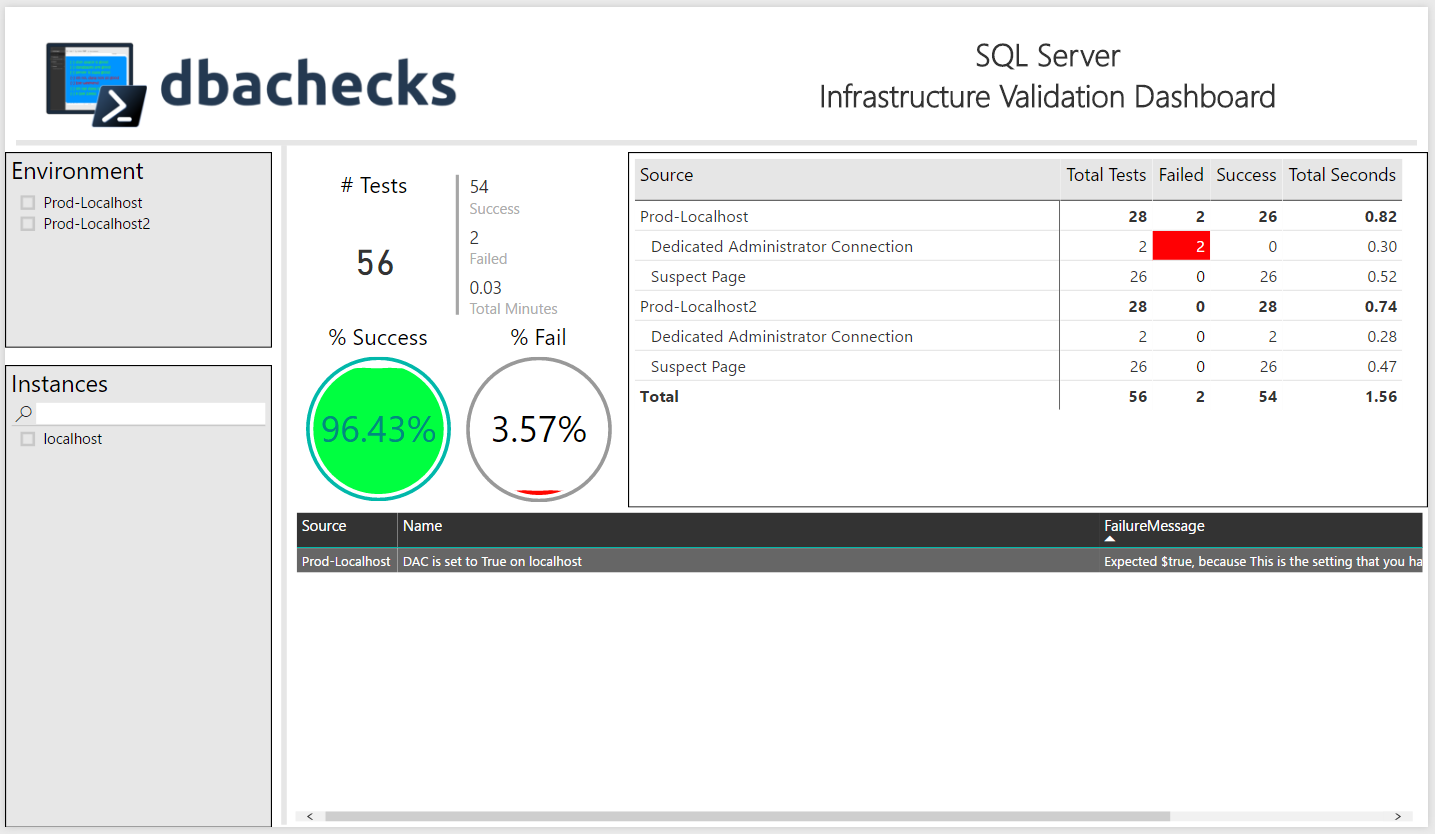
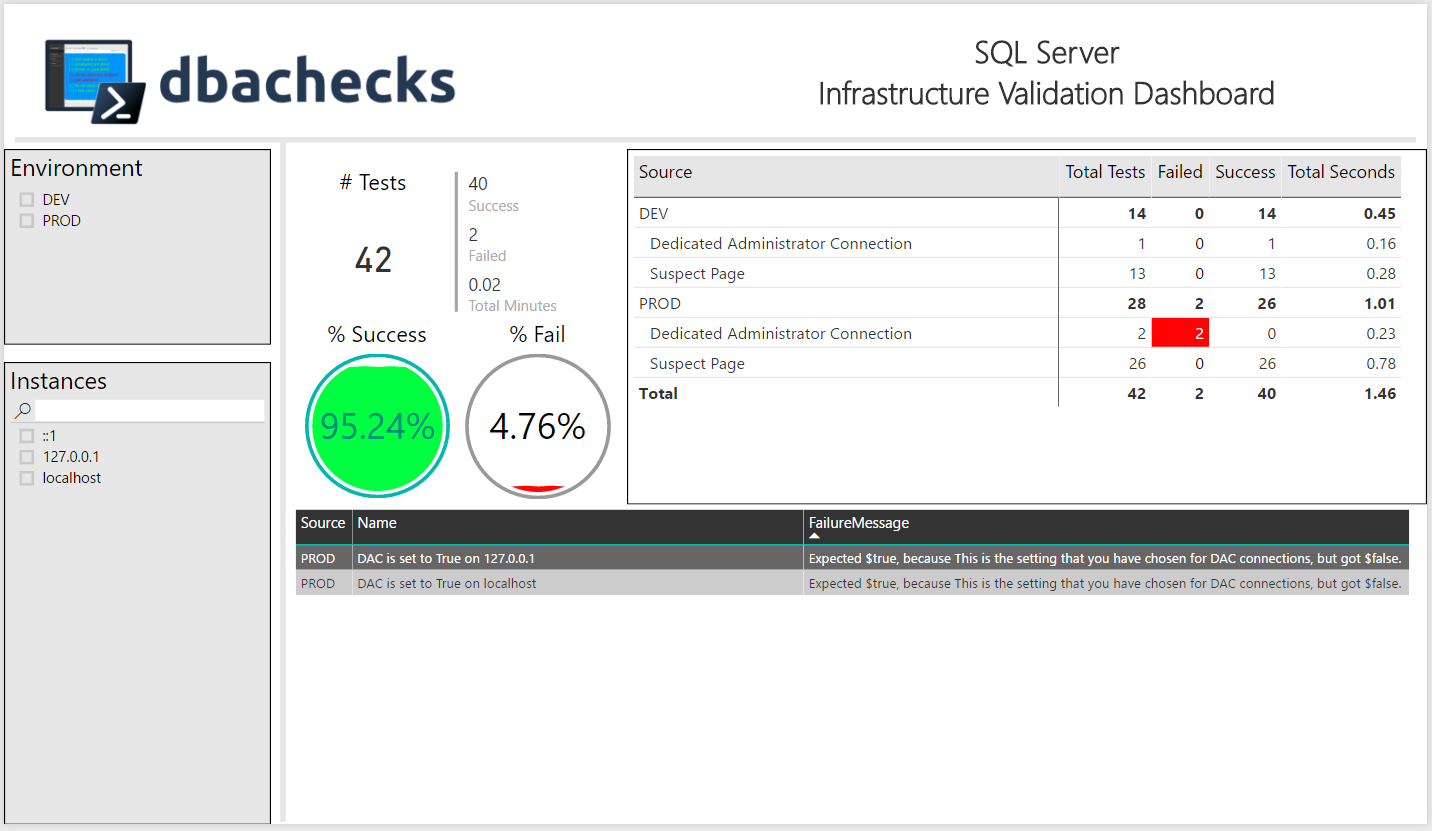
Update example to have multiple servers per environment

diff --git a/README.md b/README.md
@@ -5,13 +5,16 @@ The code to execute the checks and read config values is all contained in [RunAl
 
 ## Structure
 - A root folder to contain all global settings and invocation scripts
+  - Right now the only global setting is the export path
 - A subfolder containing one folder per environment to check
 - A pair of config files per-environment, with details about the environment as well as the specific DbcConfig settings to import
+  - Multiple servers can be configured per-environment
 - The intention is the checks folder is source controlled - the Results/Power BI folder would not be
 
 ## Example
-- In the example we run two sets of checks against localhost (aliased as localhost and localhost2, but both connecting to localhost)
-- One environment is set to check DAC is on, and the other DAC is off (one will always fail)
+- In the example we run three sets of checks against the localhost instance
+  - Prod has two servers (locahost and 127.0.0.1), and dev has one server (::1)
+- One environment (PROD) is set to check DAC is on, and the other (DEV) that DAC is off (one will always fail)
 - Both environments run the suspect page check
 - One file per-check per-environment will be produced in the specified output folder
 - The PowerBI dashboard is launched - click refresh to update the results
